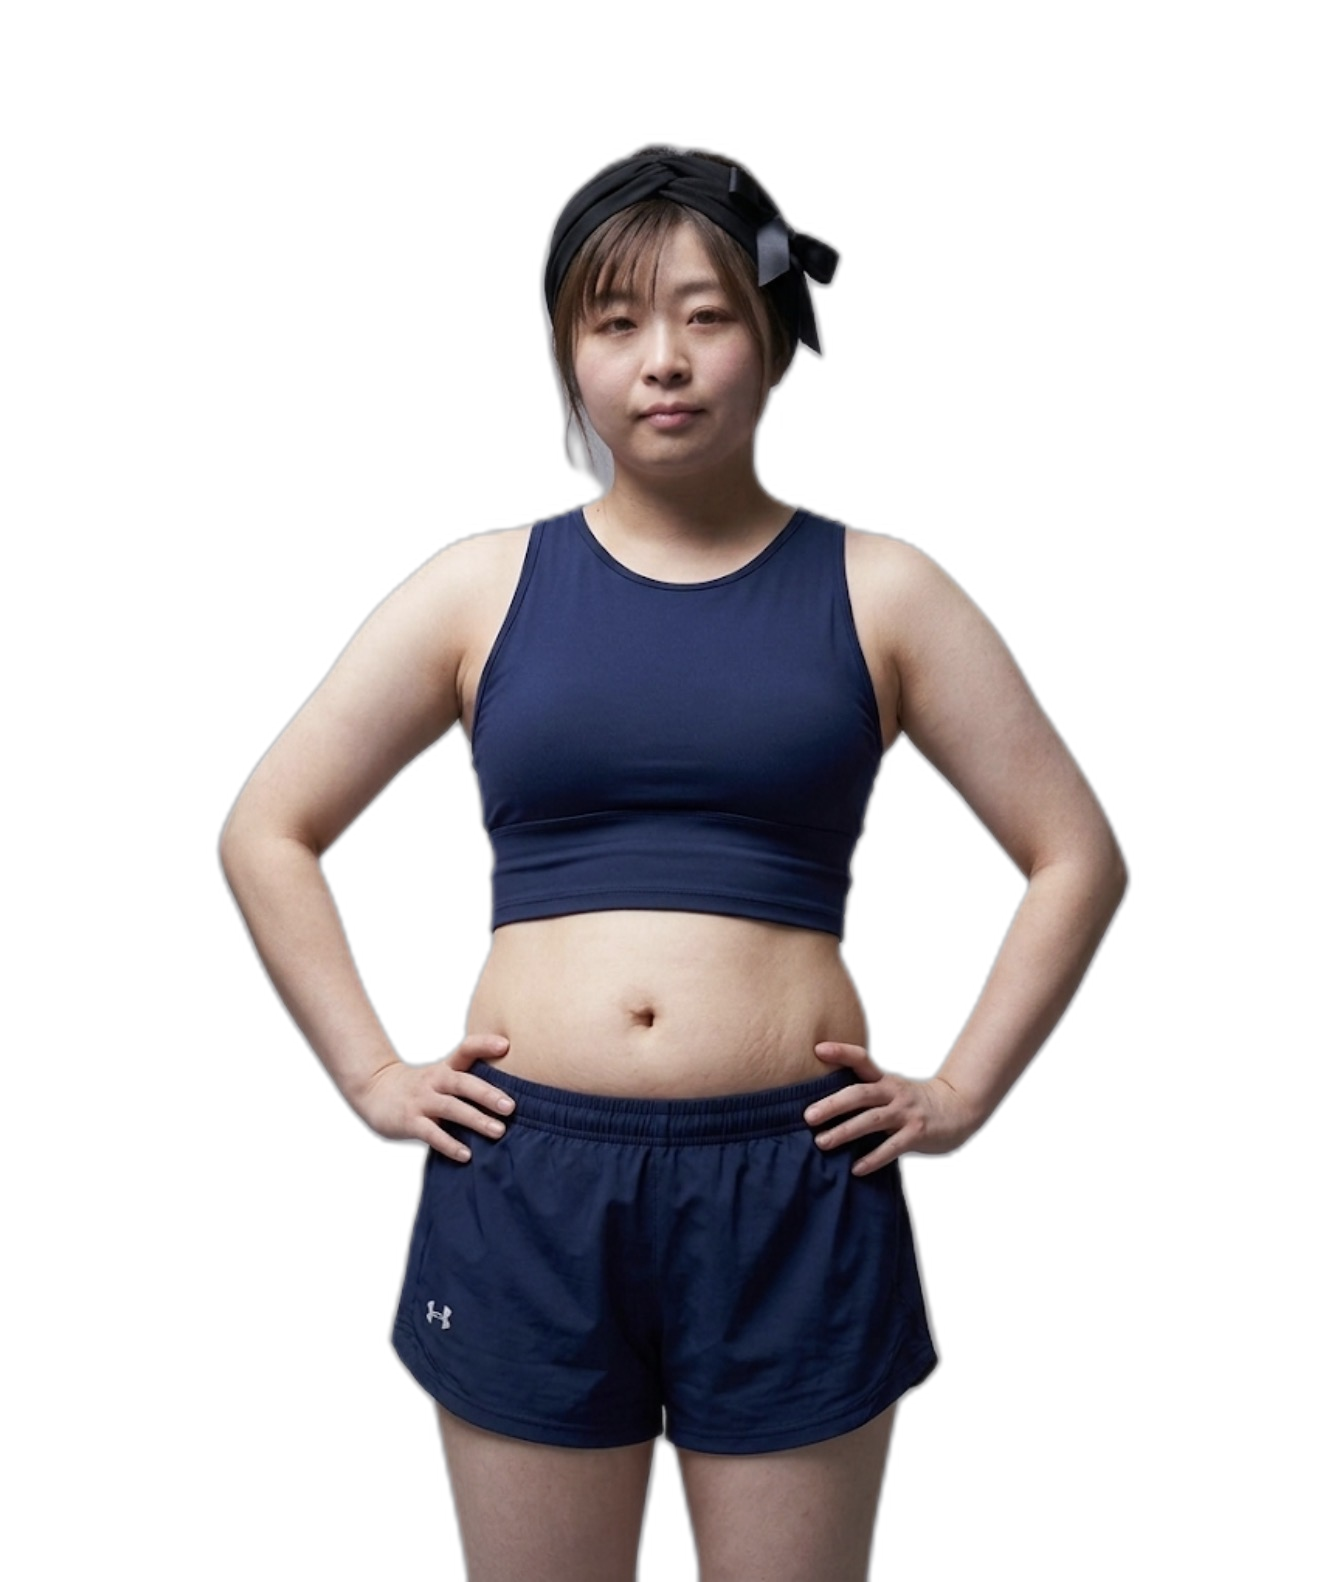
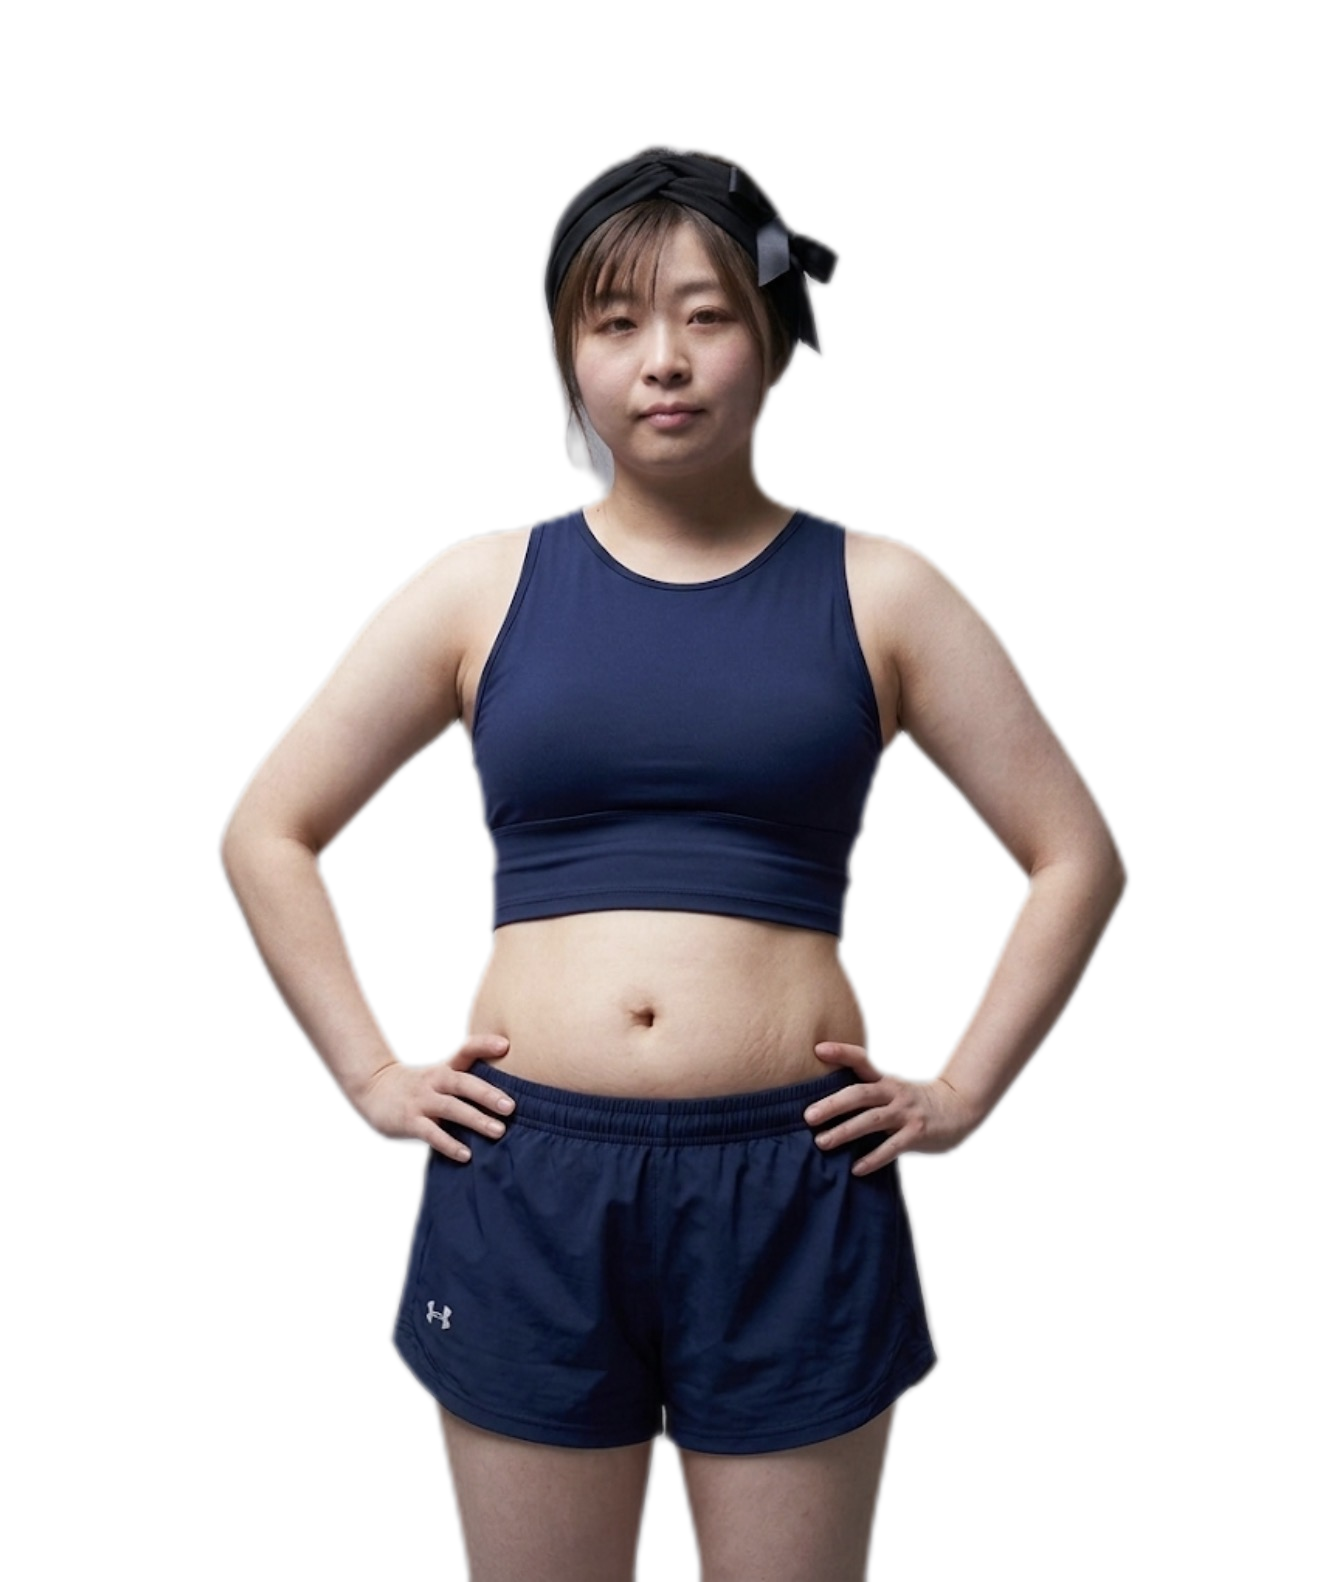
feed_C1: 指摘修正 - 継ぎ目の縦帯とハローを除去
①矩形写真ゾーンを廃止し人物を連続背景に直接配置(継ぎ目を構造的に排除)、
背後は局所グローに変更 ②切り抜きエッジ侵食をMinFilter7+blur1.4へ強化し
首肩のグレーハローを除去 ③下端フェードを矩形オーバーレイから画像マスクに変更。
再発防止策をfailure-memoryに記録。

Claude-Session: https://claude.ai/code/session_017B4ry9xAEekM39iodL8XgY

diff --git a/creative-studio/output/o2gym-summer/feed_C1.html b/creative-studio/output/o2gym-summer/feed_C1.html
@@ -12,19 +12,16 @@
     font-family:"IPAPGothic","IPAGothic",sans-serif;}
   .mincho{font-family:"IPAPMincho","IPAMincho",serif;}
 
-  /* 写真ゾーン（右40%・後から貼り付け） */
-  .photo{position:absolute;top:0;right:0;width:470px;height:880px;
-    background:linear-gradient(200deg,#3a3540 0%,#232028 70%);}
-  .photo::after{content:"";position:absolute;inset:0;
-    background:linear-gradient(90deg,#232028 0%,transparent 30%);}
-  .model{position:absolute;bottom:0;left:50%;transform:translateX(-50%);
-    width:470px;height:830px;overflow:hidden;}
-  .model img{position:absolute;bottom:-115px;left:50%;transform:translateX(-50%);
-    height:935px;display:block;
+  /* 人物: 連続背景に直接配置（矩形ゾーン廃止=継ぎ目ゼロ） */
+  .aura{position:absolute;top:60px;right:-140px;width:820px;height:1000px;
+    background:radial-gradient(ellipse 50% 46% at center,
+      rgba(90,82,100,.38) 0%, rgba(60,55,70,.16) 55%, transparent 75%);}
+  .model{position:absolute;top:130px;right:-6px;width:560px;height:950px;}
+  .model img{width:100%;display:block;
     filter:contrast(1.04) saturate(1.02)
-      drop-shadow(-18px 24px 44px rgba(0,0,0,.55));}
-  .photo::before{content:"";position:absolute;left:0;bottom:0;width:100%;height:120px;
-    background:linear-gradient(0deg,#161419 0%,transparent 100%);z-index:2;}
+      drop-shadow(-14px 22px 40px rgba(0,0,0,.45));
+    -webkit-mask-image:linear-gradient(180deg,#000 82%,transparent 99%);
+    mask-image:linear-gradient(180deg,#000 82%,transparent 99%);}
 
   /* ロゴ（白版・右上） */
   .logo{position:absolute;top:44px;right:44px;width:210px;z-index:5;}
@@ -98,9 +95,8 @@
 </style></head>
 <body><div class="stage">
 
-  <div class="photo">
-    <div class="model"><img src="model_navy_cut.png"></div>
-  </div>
+  <div class="aura"></div>
+  <div class="model"><img src="model_navy_cut.png"></div>
 
   <div class="logo"><img src="logo_white.png"></div>
 
